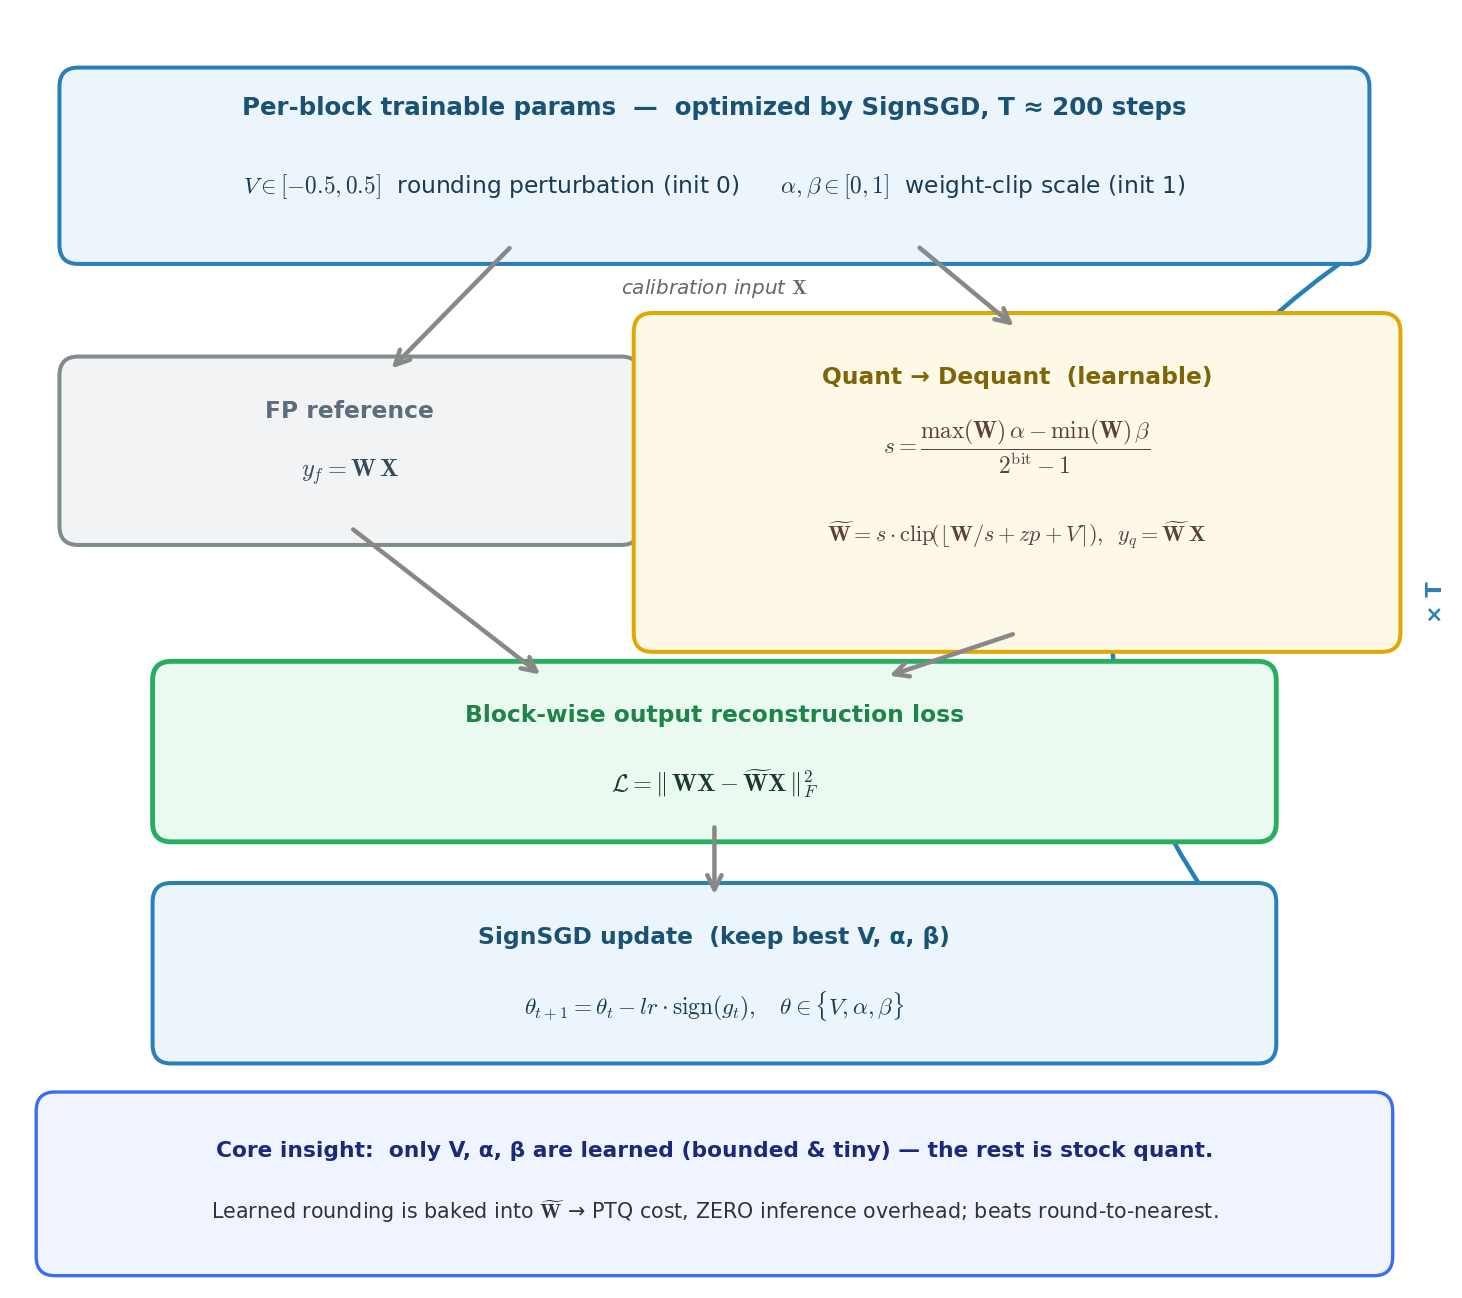
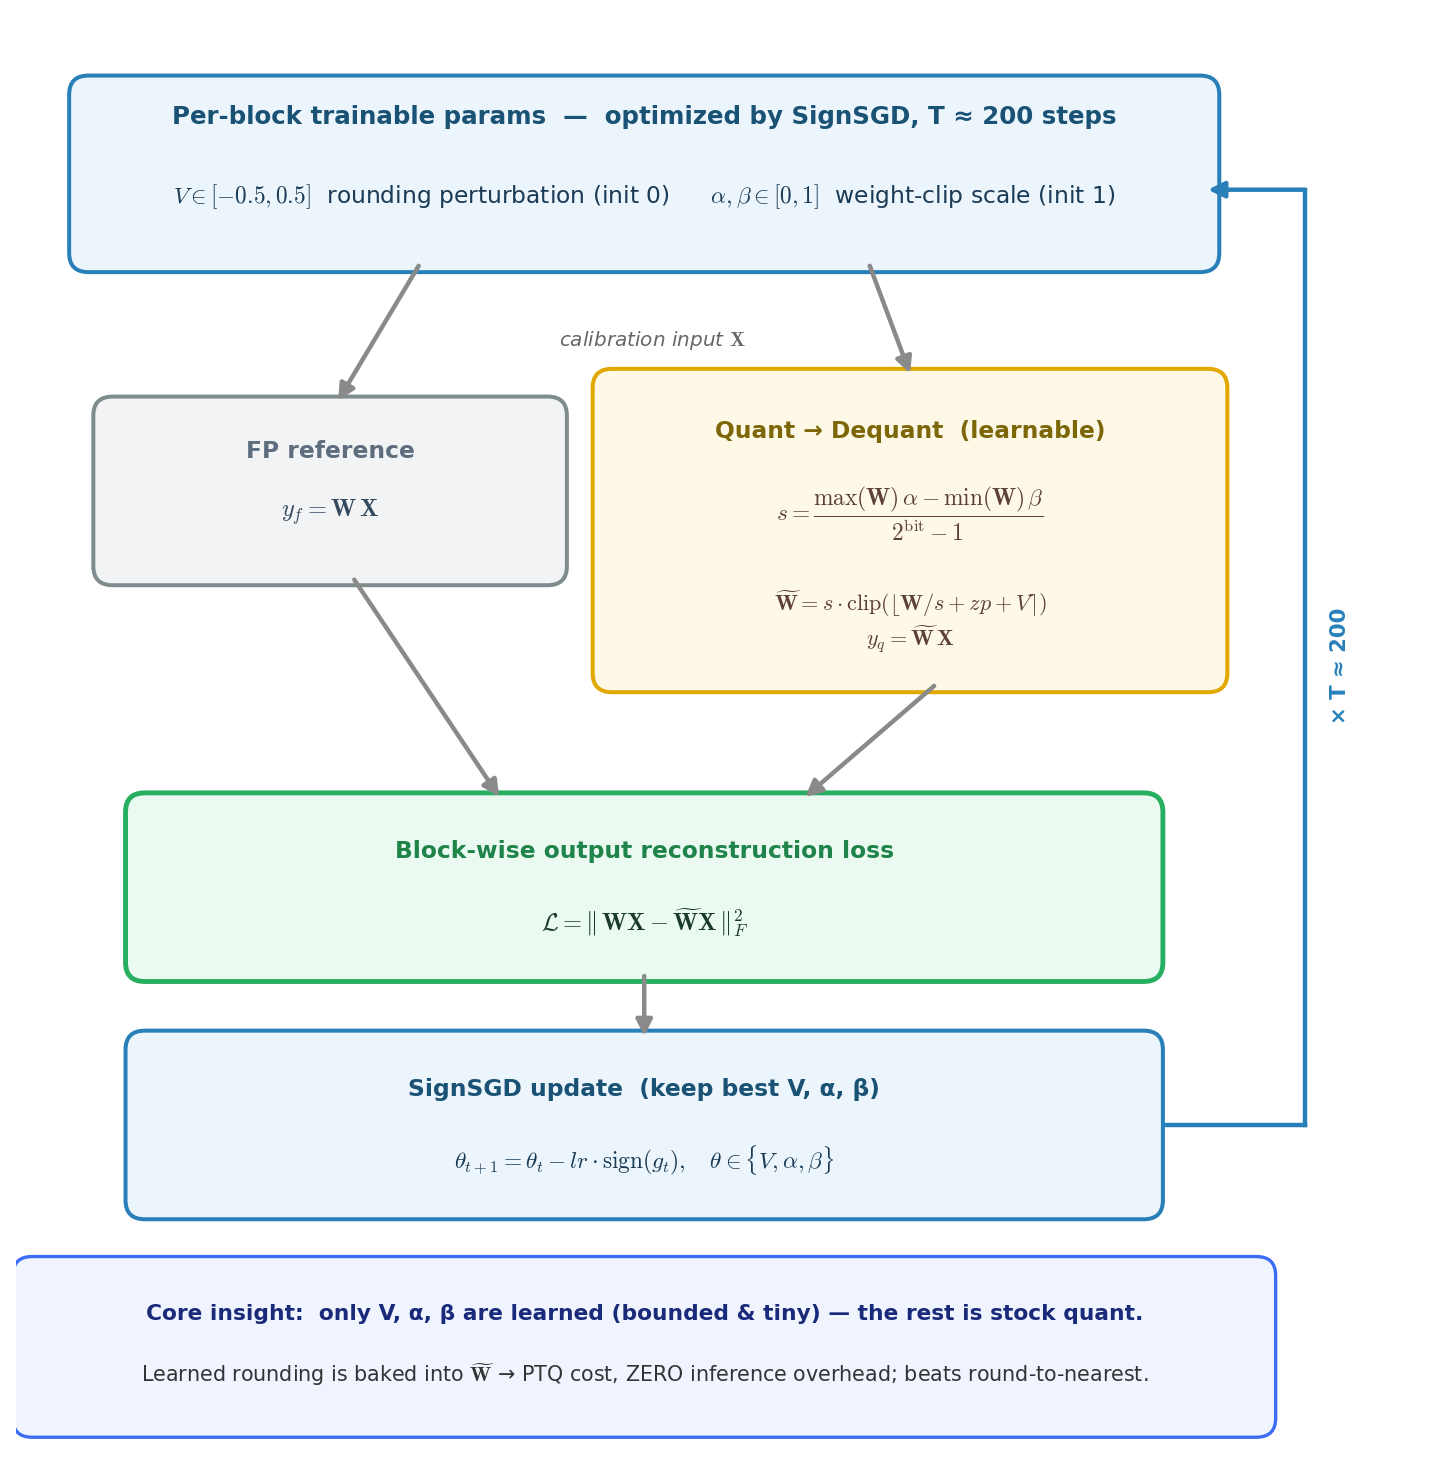
docs: fix AutoRound diagram spacing and arrow endpoints
- Arrows now start/end OUTSIDE box edges (no more poking into boxes).
- Wider horizontal gap between FP and Quant branch boxes; comfortable
  vertical spacing between all stages.
- Loop-back redrawn as a clean orthogonal route in a reserved right-hand
  lane (SignSGD → up → params), no longer running behind the Quant box.

diff --git a/runs/AutoRound-2309.05516-20260628-160240/figures/gen_signround_diagram.py b/runs/AutoRound-2309.05516-20260628-160240/figures/gen_signround_diagram.py
@@ -6,10 +6,11 @@ weight-clip scale (alpha, beta) per transformer block via signed gradient descen
 plain round-to-nearest (RTN). The learned V/alpha/beta are baked into the quantized
 weights, so there is zero inference overhead (PTQ cost).
 
-Output: figures/signround_kernel_reuse.png ... (see OUT). Referenced by README.md/_zh.
+Output: figures/signround_overview.png (referenced by README.md / README_zh.md).
 Run:  python figures/gen_signround_diagram.py   (needs matplotlib)
-Design: matplotlib mathtext (fontset='cm'); FancyBboxPatch blocks; a curved loop-back
-arrow for the T-step optimization loop.
+Design: matplotlib mathtext (fontset='cm'); FancyBboxPatch blocks with clear spacing;
+arrows start/end OUTSIDE the box edges (no poking in); a curved loop-back arrow for
+the T-step optimization loop routed in a reserved right-hand lane.
 """
 import os
 
@@ -21,9 +22,9 @@ from matplotlib.patches import FancyBboxPatch, FancyArrowPatch
 
 OUT = os.path.join(os.path.dirname(__file__), "signround_overview.png")
 
-fig, ax = plt.subplots(figsize=(9, 8))
-ax.set_xlim(0, 9)
-ax.set_ylim(0, 8)
+fig, ax = plt.subplots(figsize=(9, 9))
+ax.set_xlim(0, 8.8)
+ax.set_ylim(0, 9)
 ax.axis("off")
 fig.patch.set_facecolor("white")
 
@@ -41,76 +42,87 @@ def t(x, y, s, **kw):
     ax.text(x, y, s, **kw)
 
 
-def arr(x0, y0, x1, y1, color="#888", lw=2.0):
+def arr(x0, y0, x1, y1, color="#8a8a8a", lw=2.0):
+    # endpoints are placed just OUTSIDE the box edges by the caller
     ax.annotate("", xy=(x1, y1), xytext=(x0, y0),
-                arrowprops=dict(arrowstyle="->", color=color, lw=lw,
-                                mutation_scale=16), zorder=4)
+                arrowprops=dict(arrowstyle="-|>", color=color, lw=lw,
+                                mutation_scale=15,
+                                shrinkA=0, shrinkB=0), zorder=4)
 
+
+# ── geometry (a right-hand lane x=8.0 is reserved for the loop-back arrow) ─────
+# Params  : x 0.45-7.35  y 7.50-8.50
+# FP      : x 0.60-3.30  y 5.53-6.48      Quant: x 3.70-7.40  y 4.85-6.65
+# Loss    : x 0.80-7.00  y 3.03-3.98
+# SignSGD : x 0.80-7.00  y 1.53-2.48
+# Insight : x 0.10-7.70  y 0.15-1.05
 
 # ── trainable params (blue) ──────────────────────────────────────────────────
-rbox(4.5, 7.05, 8.2, 1.0, "#EBF5FB", "#2980B9")
-t(4.5, 7.42, "Per-block trainable params  —  optimized by SignSGD, T ≈ 200 steps",
+rbox(3.9, 8.0, 6.9, 1.0, "#EBF5FB", "#2980B9")
+t(3.9, 8.36, "Per-block trainable params  —  optimized by SignSGD, T ≈ 200 steps",
   fontsize=11, weight="bold", color="#1a5276")
-t(4.5, 6.92,
+t(3.9, 7.86,
   r"$V \in [-0.5, 0.5]$  rounding perturbation (init 0)"
   r"$\qquad \alpha, \beta \in [0, 1]$  weight-clip scale (init 1)",
   fontsize=10.5, color="#1a3a55")
 
 # ── FP reference branch (grey) ───────────────────────────────────────────────
-rbox(2.15, 5.25, 3.5, 0.95, "#F2F3F4", "#7f8c8d")
-t(2.15, 5.5, "FP reference", fontsize=10.5, weight="bold", color="#5d6d7e")
-t(2.15, 5.12, r"$y_f = \mathbf{W}\,\mathbf{X}$", fontsize=11, color="#34495e")
+rbox(1.95, 6.0, 2.7, 0.95, "#F2F3F4", "#7f8c8d")
+t(1.95, 6.25, "FP reference", fontsize=10.5, weight="bold", color="#5d6d7e")
+t(1.95, 5.87, r"$y_f = \mathbf{W}\,\mathbf{X}$", fontsize=11, color="#34495e")
 
 # ── quant-dequant branch (amber) ─────────────────────────────────────────────
-rbox(6.45, 5.05, 4.7, 1.9, "#FEF9E7", "#E0A800")
-t(6.45, 5.72, "Quant → Dequant  (learnable)", fontsize=10.5, weight="bold",
+rbox(5.55, 5.75, 3.7, 1.8, "#FEF9E7", "#E0A800")
+t(5.55, 6.38, "Quant → Dequant  (learnable)", fontsize=10.5, weight="bold",
   color="#7d6608")
-t(6.45, 5.28,
+t(5.55, 5.86,
   r"$s = \dfrac{\max(\mathbf{W})\,\alpha - \min(\mathbf{W})\,\beta}{2^{\rm bit}-1}$",
   fontsize=10.5, color="#5d4037")
-t(6.45, 4.72,
-  r"$\widetilde{\mathbf{W}} = s\cdot\mathrm{clip}\!\left(\lfloor \mathbf{W}/s + zp + V \rceil\right)$"
-  r"$,\;\; y_q = \widetilde{\mathbf{W}}\,\mathbf{X}$",
-  fontsize=10, color="#5d4037")
+t(5.55, 5.18,
+  r"$\widetilde{\mathbf{W}} = s\cdot\mathrm{clip}(\lfloor \mathbf{W}/s + zp + V \rceil)$"
+  "\n"
+  r"$y_q = \widetilde{\mathbf{W}}\,\mathbf{X}$",
+  fontsize=10, color="#5d4037", multialignment="center")
 
-# params -> both branches ;  calib input X feeds both
-arr(3.2, 6.55, 2.4, 5.75)
-arr(5.8, 6.55, 6.45, 6.02)
-t(4.5, 6.28, r"calibration input $\mathbf{X}$", fontsize=9, style="italic",
+# params -> both branches (tails below params @7.42; heads above box tops)
+arr(2.5, 7.42, 2.0, 6.57)      # -> FP (top 6.48)
+arr(5.3, 7.42, 5.55, 6.74)     # -> Quant (top 6.65)
+t(3.95, 6.95, r"calibration input $\mathbf{X}$", fontsize=9, style="italic",
   color="#666")
 
 # ── loss (green) ─────────────────────────────────────────────────────────────
-rbox(4.5, 3.35, 7.0, 0.9, "#EAFAF1", "#27AE60", lw=2.2)
-t(4.5, 3.58, "Block-wise output reconstruction loss", fontsize=10.5,
+rbox(3.9, 3.5, 6.2, 0.95, "#EAFAF1", "#27AE60", lw=2.2)
+t(3.9, 3.73, "Block-wise output reconstruction loss", fontsize=10.5,
   weight="bold", color="#1e8449")
-t(4.5, 3.15, r"$\mathcal{L} = \|\,\mathbf{W}\mathbf{X} - \widetilde{\mathbf{W}}\mathbf{X}\,\|_F^2$",
+t(3.9, 3.28, r"$\mathcal{L} = \|\,\mathbf{W}\mathbf{X} - \widetilde{\mathbf{W}}\mathbf{X}\,\|_F^2$",
   fontsize=11, color="#1a3a2a")
 
-arr(2.15, 4.77, 3.4, 3.82)   # FP -> loss
-arr(6.45, 4.10, 5.6, 3.82)   # quant -> loss
+arr(2.1, 5.44, 3.0, 4.07)      # FP (bottom 5.53) -> loss (top 3.98)
+arr(5.7, 4.77, 4.9, 4.07)      # quant (bottom 4.85) -> loss
 
 # ── SignSGD update (blue) ────────────────────────────────────────────────────
-rbox(4.5, 1.95, 7.0, 0.9, "#EBF5FB", "#2980B9")
-t(4.5, 2.18, "SignSGD update  (keep best V, α, β)", fontsize=10.5,
+rbox(3.9, 2.0, 6.2, 0.95, "#EBF5FB", "#2980B9")
+t(3.9, 2.23, "SignSGD update  (keep best V, α, β)", fontsize=10.5,
   weight="bold", color="#1a5276")
-t(4.5, 1.75, r"$\theta_{t+1} = \theta_t - lr\cdot\mathrm{sign}(g_t)$"
+t(3.9, 1.78, r"$\theta_{t+1} = \theta_t - lr\cdot\mathrm{sign}(g_t)$"
   r"$,\quad \theta \in \{V, \alpha, \beta\}$",
   fontsize=10.5, color="#1a3a55")
 
-arr(4.5, 2.9, 4.5, 2.42)     # loss -> signsgd
+arr(3.9, 2.94, 3.9, 2.56)      # loss (bottom 3.03) -> signsgd (top 2.48)
 
-# loop-back arrow: SignSGD (right) -> params (right)  [T steps]
-ax.add_patch(FancyArrowPatch((8.05, 1.95), (8.7, 6.55),
-             connectionstyle="arc3,rad=-0.55", arrowstyle="->",
-             color="#2980B9", lw=2.0, mutation_scale=16, zorder=1))
-t(9.15, 4.3, "× T", fontsize=10, weight="bold", color="#2980B9", rotation=90)
+# loop-back: orthogonal route in the reserved right lane (x=8.0), clear of all boxes
+LOOP = "#2980B9"
+ax.plot([7.05, 8.0], [2.0, 2.0], color=LOOP, lw=2.0, zorder=1)   # right out of SignSGD
+ax.plot([8.0, 8.0], [2.0, 7.9], color=LOOP, lw=2.0, zorder=1)    # up the lane
+arr(8.0, 7.9, 7.4, 7.9, color=LOOP)                              # left into params edge
+t(8.22, 4.9, "× T ≈ 200", fontsize=9.5, weight="bold", color=LOOP, rotation=90)
 
 # ── key insight (bottom) ─────────────────────────────────────────────────────
-rbox(4.5, 0.62, 8.5, 0.92, "#f0f4ff", "#3a6cf4", lw=1.5)
-t(4.5, 0.83,
+rbox(3.9, 0.6, 7.6, 0.9, "#f0f4ff", "#3a6cf4", lw=1.5)
+t(3.9, 0.81,
   "Core insight:  only V, α, β are learned (bounded & tiny) — the rest is stock quant.",
   fontsize=9.8, weight="bold", color="#1a2a7a")
-t(4.5, 0.45,
+t(3.9, 0.43,
   r"Learned rounding is baked into $\widetilde{\mathbf{W}}$ → PTQ cost, "
   "ZERO inference overhead; beats round-to-nearest.",
   fontsize=9.3, color="#333")